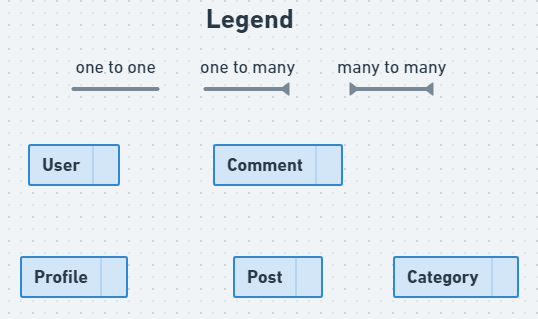
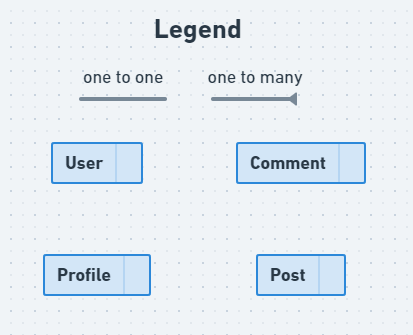
Add requirement 1

diff --git a/README.md b/README.md
@@ -1,1 +1,25 @@
 # Blog Domain Challenge 1
+
+## Learning Objectives
+
+- Modify an incomplete entity relationship diagram to include relationships
+- Use an ORM to implement a database design
+- Use an ORM to create data in a database
+
+## Introduction
+
+This challenge is an opportunity to practice everything we've learned about database design and ORM's. An incomplete entity relationship diagram has already been provided in the first requirement file; your task is to give the entities some appropriate fields and relationships, implement that design in Prisma and then populate the database with seed data.
+
+## Setting up
+
+1. Rename the `.env.example` file to `.env`. The [.gitignore](./.gitignore) file ensures that `.env` won't be tracked in the repository, keeping sensitive data safe.
+2. Create a new database instance in [ElephantSQL](https://www.elephantsql.com/).
+3. Edit the `DATABASE_URL` variable in `.env`, swapping `YOUR_DATABASE_URL` for the URL of the database you just created. Leave `?schema=prisma` at the end.
+4. Create another new instance in ElephantSQL (this will be your [Shadow Database](https://www.prisma.io/docs/concepts/components/prisma-migrate/shadow-database)).
+5. Edit the `SHADOW_DATABASE_URL` variable in `.env`, swapping `YOUR_SHADOW_DATABASE_URL` for the URL of the shadow database you just created. Leave `?schema=public` at the end.
+6. Run `npm ci` to install the project dependencies.
+7. Run `npx prisma migrate reset` to execute the existing migration & data seed. Press `y` when it asks if you're sure.
+
+## Instructions
+- Work through each requirement in the `./requirements/` directory in numeric order
+- Add an image of your complete entity relationship diagram to the root directory of this repository

diff --git a/requirements/1 - Complete the ERD.md b/requirements/1 - Complete the ERD.md
@@ -1,0 +1,15 @@
+# Complete the Entity Relationship Diagram
+
+![](../assets/Blog_Domain_NoRelation.PNG)
+
+## Instructions
+
+- Think about what fields might be relevant to add to the above entities and add them
+- Using the user stories below as a guide, add the appropriate relationships between the entities
+- Add your complete diagram as an image to the root directory of the repo
+
+## User stories
+
+- As a user, so I can share my personality, I want to have a profile.
+- As a user, so I can express my thoughts, I want to create posts.
+- As a user, so I can engage with other users, I want to be able to comment on posts.
